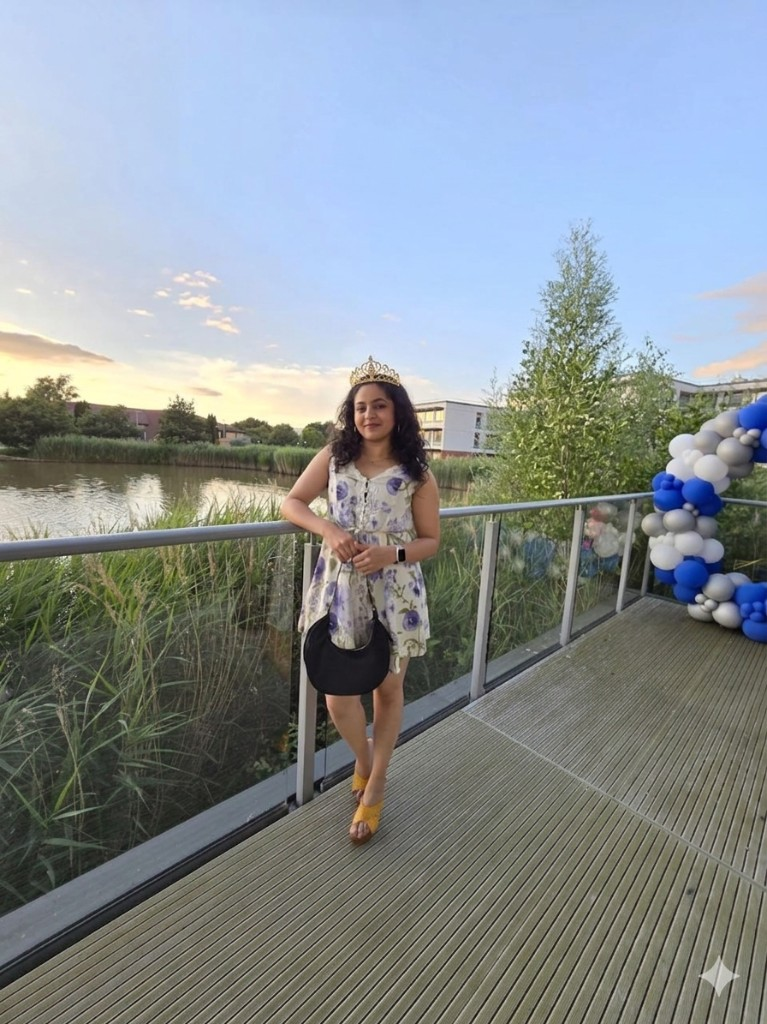
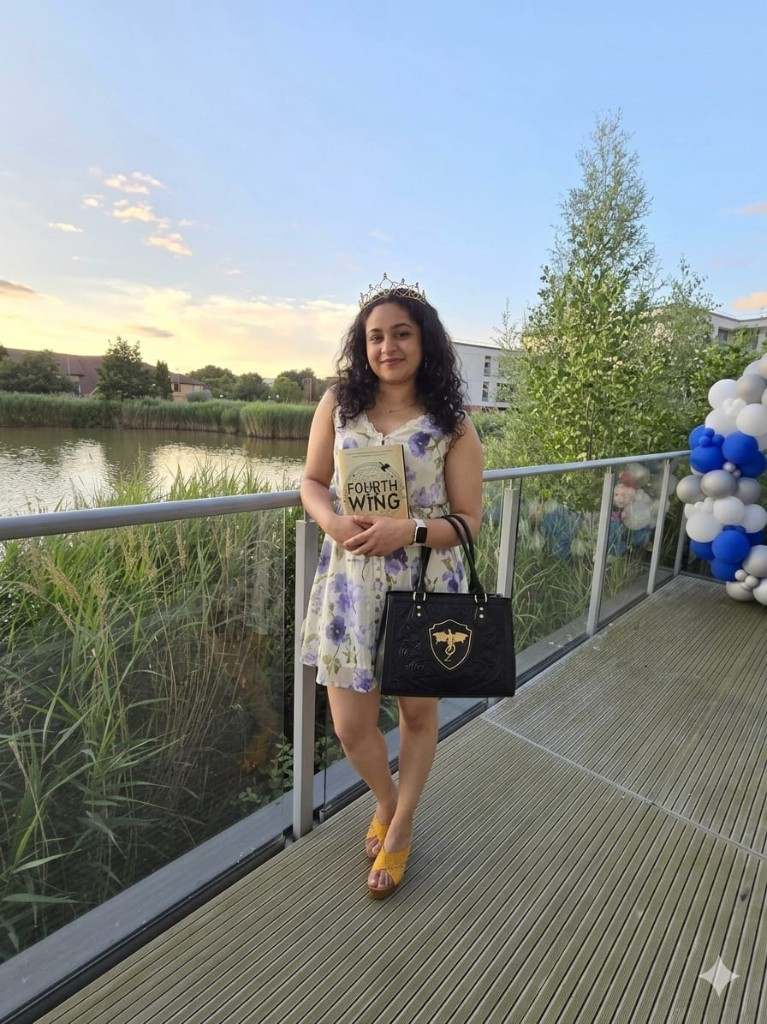
Replace photo5 with Fourth Wing bridge photo
Made-with: Cursor

diff --git a/src/app/components/GallerySection.tsx b/src/app/components/GallerySection.tsx
@@ -7,7 +7,7 @@ const ITEMS = [
   { src: "/images/photo2.png", ph: "🧙", caption: "A Hogwarts story",         pos: "center center"  },
   { src: "/images/photo3.png", ph: "👑", caption: "Born to wear a crown",     pos: "center top"     },
   { src: "/images/photo4.png", ph: "🌸", caption: "Where it all began",       pos: "center center"  },
-  { src: "/images/photo5.png", ph: "🌿", caption: "Golden hour",              pos: "center 65%"     },
+  { src: "/images/photo5.png", ph: "📖", caption: "Fourth Wing & golden hour", pos: "center 30%"     },
 ];
 
 function GalleryItem({
